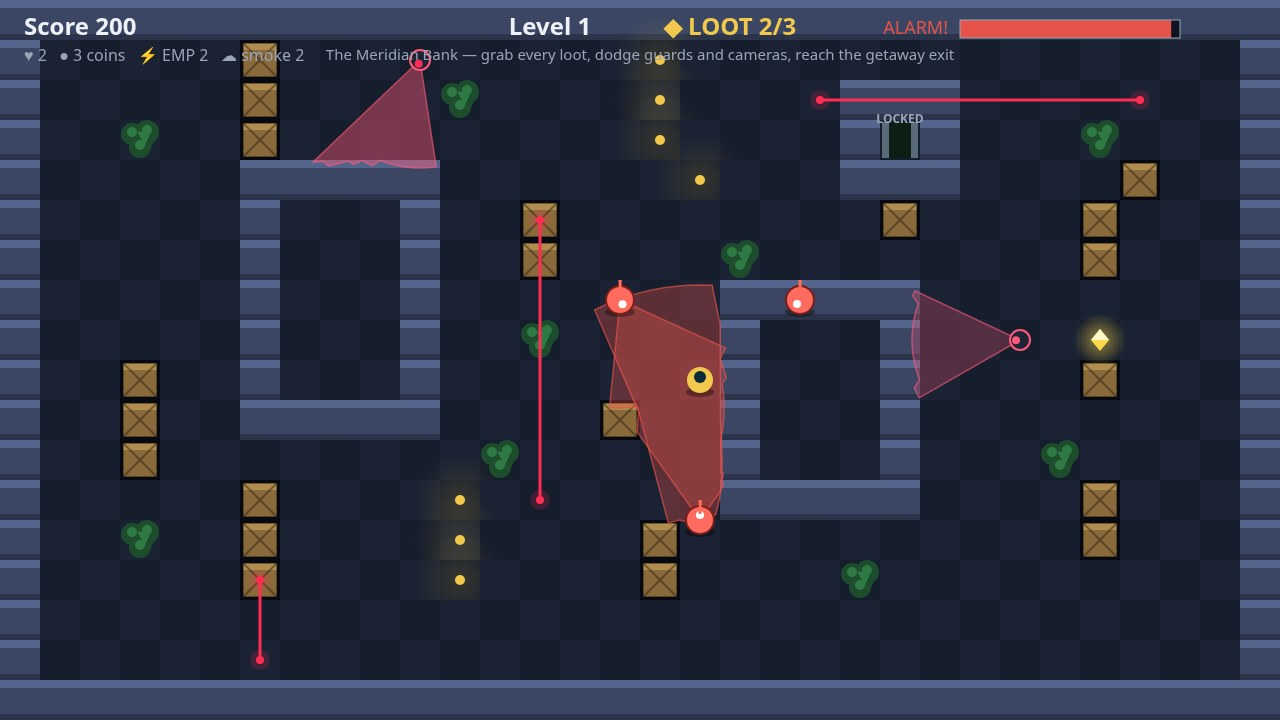
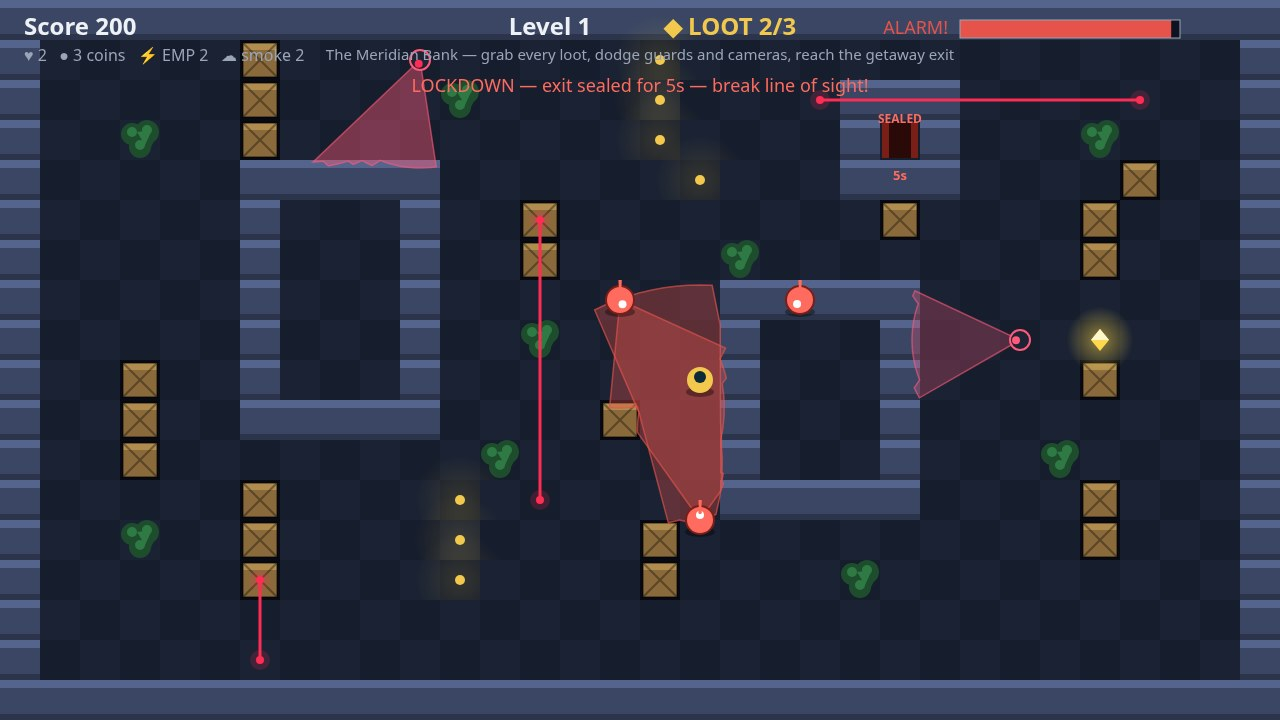
Add lockdown: alarm seals the getaway exit for eight seconds

Changed region(s): [[0.3125, 0.0917, 0.6875, 0.1528], [0.6875, 0.1528, 0.7188, 0.2444]]

diff --git a/game/src/render.js b/game/src/render.js
@@ -84,15 +84,26 @@ export function createRenderer(canvas) {
         }
       }
     }
-    // Getaway exit door.
+    // Getaway exit door. A sealed vault shows a red lockdown countdown
+    // instead of the green exit, so the thief knows to wait it out.
     const e = state.exit;
     const open = state.relics.every((r) => r.taken);
-    context.fillStyle = open ? PALETTE.exit : PALETTE.exitLocked;
-    context.fillRect(e.x - 18, e.y - 18, 36, 36);
-    context.fillStyle = '#0b1f14';
-    context.fillRect(e.x - 11, e.y - 18, 22, 36);
-    if (open) { context.fillStyle = '#eafff3'; text('EXIT', e.x, e.y - 26, 15, PALETTE.exit, 'center'); }
-    else { context.fillStyle = PALETTE.muted; text('LOCKED', e.x, e.y - 26, 12, PALETTE.muted, 'center'); }
+    if (state.lockdown) {
+      context.fillStyle = '#7a1f18';
+      context.fillRect(e.x - 18, e.y - 18, 36, 36);
+      context.fillStyle = '#2a0a08';
+      context.fillRect(e.x - 11, e.y - 18, 22, 36);
+      context.fillStyle = '#ff6b5e';
+      text('SEALED', e.x, e.y - 26, 12, '#ff6b5e', 'center');
+      text(`${Math.ceil(state.lockdownTimer)}s`, e.x, e.y + 30, 13, '#ff6b5e', 'center');
+    } else {
+      context.fillStyle = open ? PALETTE.exit : PALETTE.exitLocked;
+      context.fillRect(e.x - 18, e.y - 18, 36, 36);
+      context.fillStyle = '#0b1f14';
+      context.fillRect(e.x - 11, e.y - 18, 22, 36);
+      if (open) { context.fillStyle = '#eafff3'; text('EXIT', e.x, e.y - 26, 15, PALETTE.exit, 'center'); }
+      else { context.fillStyle = PALETTE.muted; text('LOCKED', e.x, e.y - 26, 12, PALETTE.muted, 'center'); }
+    }
     // Loot: glowing gold bars and diamonds.
     for (const r of state.relics) {
       if (r.taken) continue;
@@ -281,6 +292,9 @@ export function createRenderer(canvas) {
     context.strokeStyle = PALETTE.muted; context.lineWidth = 1; context.strokeRect(barX, barY, barW, barH);
     plain(`♥ ${state.lives}   ● ${state.pebbles} coins   ⚡ EMP ${state.empCharges}${state.empTimer > 0 ? ' — cameras blind ' + state.empTimer.toFixed(0) + 's' : ''}   ☁ smoke ${state.smokeCharges}`, 24, 48, 16, PALETTE.muted, 'left');
     plain(state.level.def.name + ' — grab every loot, dodge guards and cameras, reach the getaway exit', FIELD.width / 2, 48, 15, PALETTE.muted, 'center');
+    if (state.lockdown) {
+      text(`LOCKDOWN — exit sealed for ${Math.ceil(state.lockdownTimer)}s — break line of sight!`, FIELD.width / 2, 78, 18, '#ff6b5e', 'center');
+    }
   }
 
   function drawTitleBanner(title, lines, prompt) {

diff --git a/game/src/world.js b/game/src/world.js
@@ -36,6 +36,8 @@ export function createWorld() {
     relics: [],
     empCharges: 2,
     empTimer: 0,
+    lockdownTimer: 0,
+    lockdown: false,
     smokeCharges: 2,
     smokes: [],
     crackTarget: null,
@@ -78,6 +80,8 @@ export function createWorld() {
     }));
     state.empCharges = 2;
     state.empTimer = 0;
+    state.lockdownTimer = 0;
+    state.lockdown = false;
     state.smokeCharges = 2;
     state.smokes = [];
     state.crackTarget = null;
@@ -190,6 +194,24 @@ export function createWorld() {
     state.empTimer = 6;
     for (const cam of state.cameras) cam.seeing = false;
     return true;
+  }
+
+  // Lockdown: the moment the alarm trips, the vault seals its getaway
+  // exit for eight seconds. The thief must survive the chase, break
+  // line of sight, and wait for the doors to reopen before escaping.
+  // While the vault is sealed the exit door shows a red countdown.
+  function triggerLockdown() {
+    state.lockdown = true;
+    state.lockdownTimer = 8;
+  }
+
+  function updateLockdown(dt, anySeen) {
+    if (!state.lockdown) return;
+    state.lockdownTimer -= dt;
+    if (state.lockdownTimer <= 0) {
+      state.lockdown = false;
+      state.lockdownTimer = 0;
+    }
   }
 
   // Smoke bomb: a grey cloud that hides the thief from every cone.
@@ -367,6 +389,7 @@ export function createWorld() {
       state.loseSight = 0;
       if (state.detection >= 100 && !wasAlarmed) {
         state.alarm = true;
+        triggerLockdown();
         for (const g of state.guards) g.mode = 'chase';
         events |= EVENT_SPOTTED;
       }
@@ -375,8 +398,11 @@ export function createWorld() {
       if (state.detection < 40) state.alarm = false;
     }
 
-    // The getaway exit opens only once every loot stash is taken.
-    if (relicsLeft === 0 && dist(p.x, p.y, state.exit.x, state.exit.y) < 30) {
+    updateLockdown(dt, anySeen);
+
+    // The getaway exit opens only once every loot stash is taken,
+    // and never while the vault is in lockdown after an alarm.
+    if (!state.lockdown && relicsLeft === 0 && dist(p.x, p.y, state.exit.x, state.exit.y) < 30) {
       state.score += 250;
       if (state.levelIndex + 1 >= LEVELS.length) {
         state.won = true;

diff --git a/game/src/main.js b/game/src/main.js
@@ -98,7 +98,7 @@ function runGame() {
     if (events & EVENT_SMOKE) { audio.pebble(); announce('Smoke bomb dropped. You are hidden inside the cloud.'); }
     if (events & EVENT_LASER) { audio.spotted(); announce('Laser tripped! Get out of the beam!'); }
     if (events & EVENT_PEBBLE) { audio.pebble(); announce('Coin thrown. A guard goes to look.'); }
-    if (events & EVENT_SPOTTED) { audio.spotted(); announce('Spotted! Alarm! Break line of sight!'); }
+    if (events & EVENT_SPOTTED) { audio.spotted(); announce('Spotted! Alarm! The vault is in lockdown — the exit is sealed for eight seconds. Break line of sight!'); }
     if (events & EVENT_CAUGHT) {
       audio.caught();
       if (world.state.lives <= 0) endGame();

diff --git a/game/src/shots.js b/game/src/shots.js
@@ -27,6 +27,7 @@ export function stageShot(name, world) {
     s.player.x = 700; s.player.y = 380;
     s.relics[0].taken = true; s.relics[1].taken = true; s.score = 200;
     s.detection = 96; s.alarm = true; s.lives = 2;
+    s.lockdown = true; s.lockdownTimer = 5;
     for (const g of s.guards) { g.mode = 'chase'; }
     s.guards[0].x = 620; s.guards[0].y = 300; s.guards[0].facing = Math.PI / 3;
     s.guards[1].x = 800; s.guards[1].y = 300; s.guards[1].facing = Math.PI * 0.7;

diff --git a/README.md b/README.md
@@ -4,7 +4,7 @@
 [![rank](https://make.fun/badge/best-heist-game-20261122-0559/tdjack/makefun-heist-game/rank.svg)](https://make.fun/bounty/best-heist-game-20261122-0559/leaderboard?utm_source=github&utm_medium=readme&utm_campaign=best-heist-game-20261122-0559)
 [![reward](https://make.fun/badge/best-heist-game-20261122-0559/tdjack/makefun-heist-game/reward.svg)](https://make.fun/bounty/best-heist-game-20261122-0559?utm_source=github&utm_medium=readme&utm_campaign=best-heist-game-20261122-0559)
 
-Midnight Vault is a complete top-down heist game: you are a thief crossing a guarded bank vault, cracking every safe, then reaching the getaway exit unseen. Four levels (The Meridian Bank, The Gilded Gallery, The Diamond Vault, The Royal Mint), patrolling guards with raycast vision cones, wall-mounted security cameras with sweeping pink cones, blinking laser tripwires that trip the alarm when touched, vault cabinets and walls for cover, shadows to hide in, spotlights that expose you, an alarm meter that fills when a guard, camera or laser sees you and triggers a chase, coin distractions, a sneak mode, an EMP gadget (E, two charges per vault) that blinds every camera for six seconds, and smoke bombs (Q, two per vault) that hide you from every guard and camera for five seconds. Loot is not grabbed on touch: stand still beside a safe for 1.4 seconds to crack it, and being spotted resets the crack.
+Midnight Vault is a complete top-down heist game: you are a thief crossing a guarded bank vault, cracking every safe, then reaching the getaway exit unseen. Four levels (The Meridian Bank, The Gilded Gallery, The Diamond Vault, The Royal Mint), patrolling guards with raycast vision cones, wall-mounted security cameras with sweeping pink cones, blinking laser tripwires that trip the alarm when touched, vault cabinets and walls for cover, shadows to hide in, spotlights that expose you, an alarm meter that fills when a guard, camera or laser sees you and triggers a chase — tripping the alarm also seals the getaway exit in lockdown for eight seconds, so you must break line of sight and wait for the doors to reopen — coin distractions, a sneak mode, an EMP gadget (E, two charges per vault) that blinds every camera for six seconds, and smoke bombs (Q, two per vault) that hide you from every guard and camera for five seconds. Loot is not grabbed on touch: stand still beside a safe for 1.4 seconds to crack it, and being spotted resets the crack.
 
 ## Run it
 
